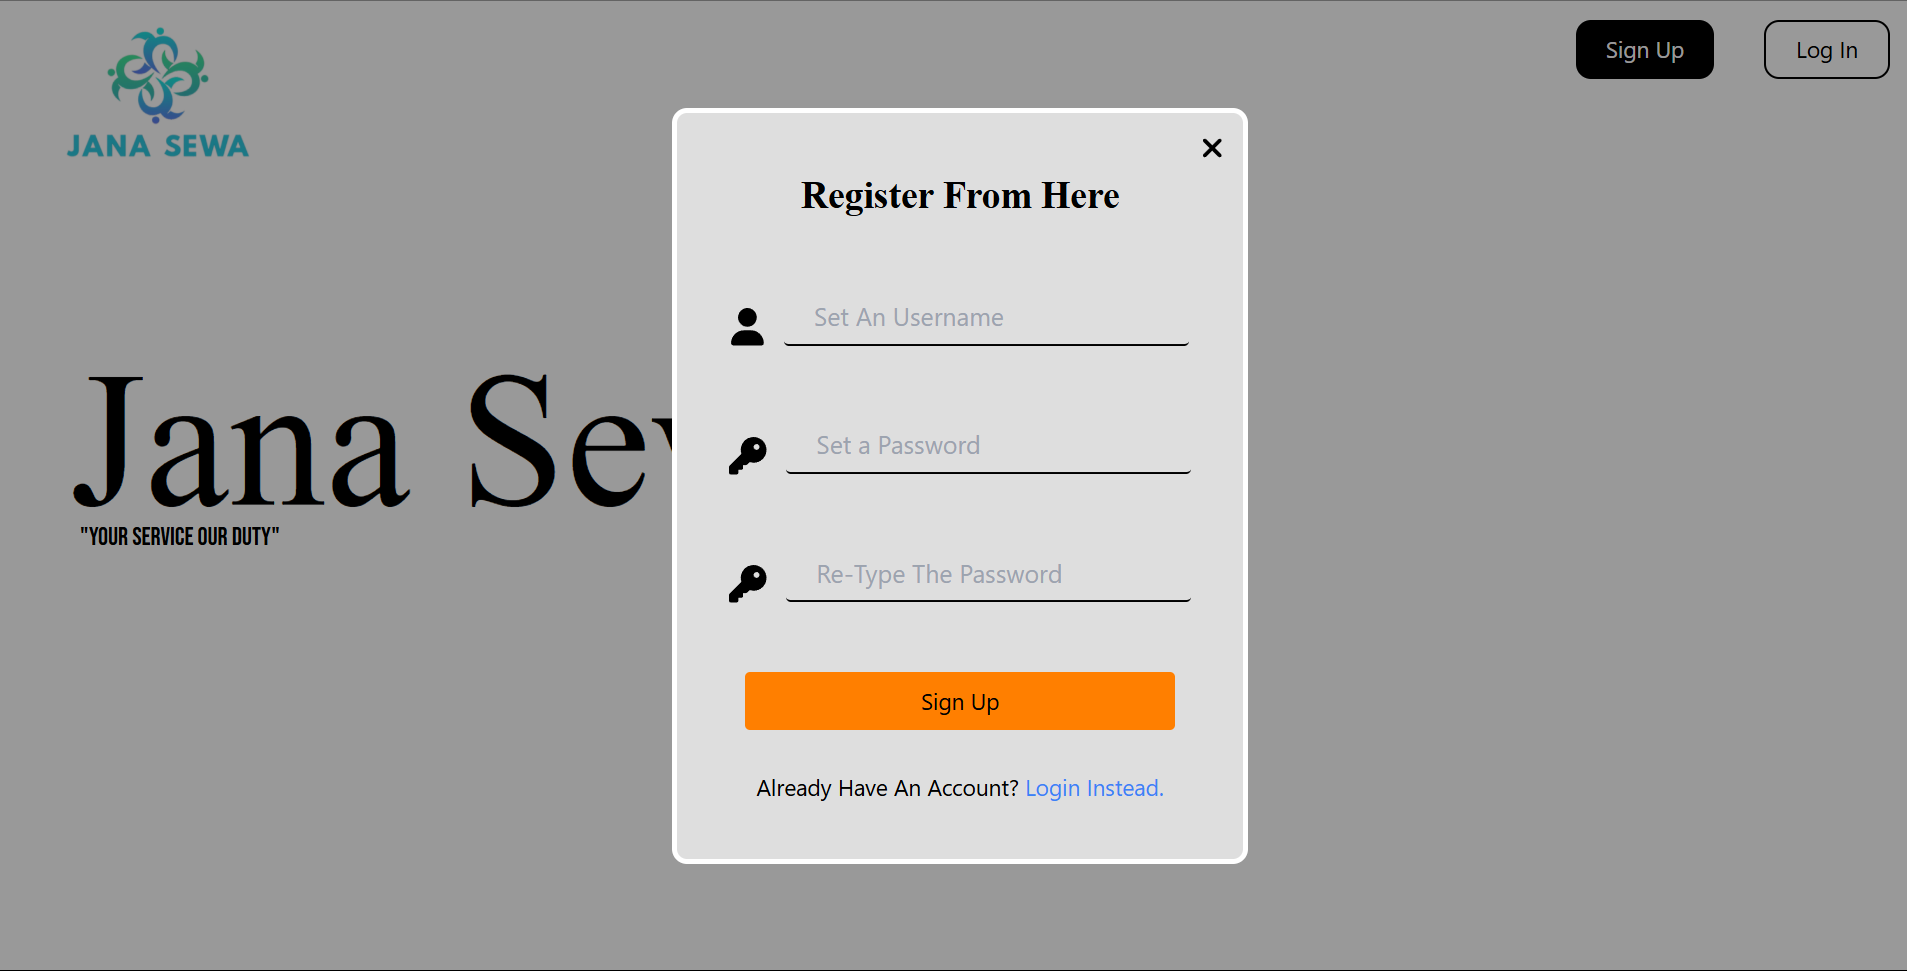
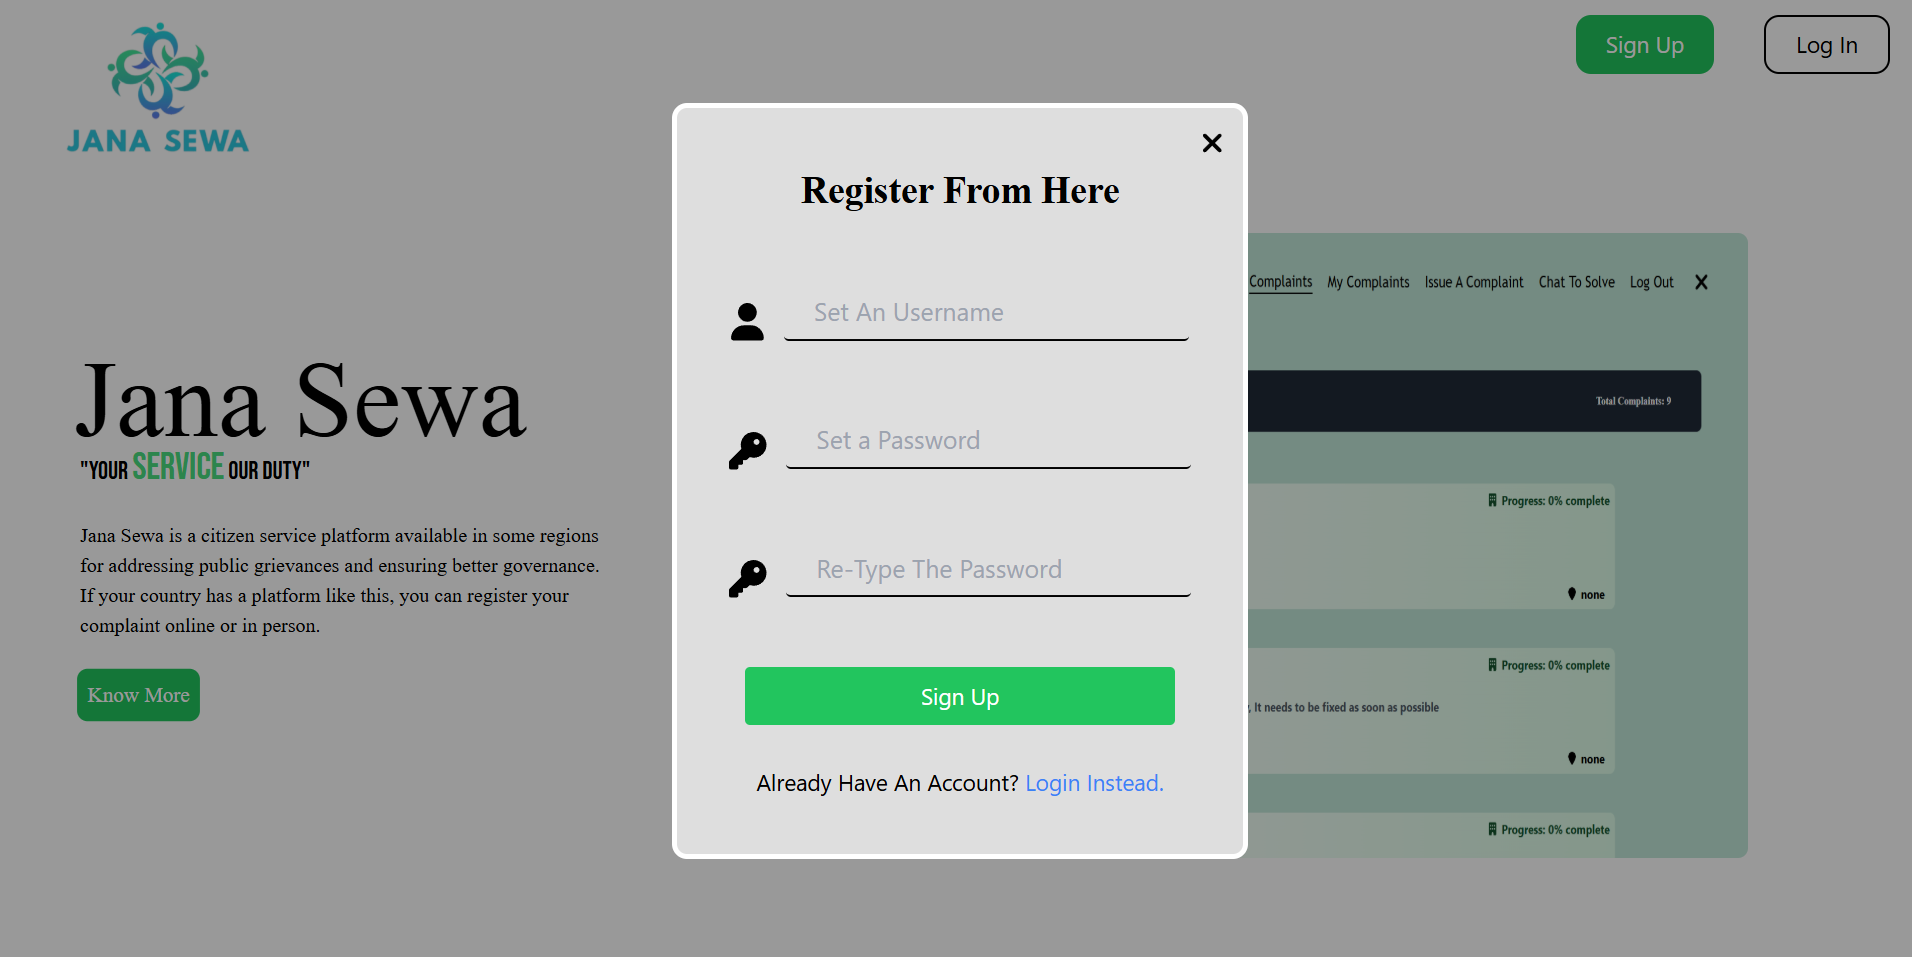
front end changes

diff --git a/frontend/src/LandingComponents/SignUpPage.jsx b/frontend/src/LandingComponents/SignUpPage.jsx
@@ -95,11 +95,6 @@ const SignUpPage = ({setSignUpForm, handleFormModalClick}) => {
             setRePassword('');
         }
     }
-
-
-
-
-
   return (
     <div onClick={handleFormClick} className='h-[78vh] w-[30%] relative z-[99]'>
     <form className='h-full w-full bg-theme-secondary rounded-xl px-6 py-4 border-4 border-white flex flex-col items-center gap-14 pt-12 relative'>
@@ -116,7 +111,7 @@ const SignUpPage = ({setSignUpForm, handleFormModalClick}) => {
             <FontAwesomeIcon icon={faKey} className='text-3xl self-end'  />
             <input value={rePassword} onChange={hanldeRePassword} name='rePassword' type="password" placeholder='Re-Type The Password' className='bg-theme-secondary text-xl focus:outline-none text-gray-900 h-[6vh] w-[80%] px-6 rounded placeholder:text-xl border-b-2 border-black'/>
         </div>
-        <button onClick={handleFormSubmit} className='bg-theme-highlight w-[85%] h-[6vh] rounded'>Sign Up</button>
+        <button onClick={handleFormSubmit} className='bg-green-500 text-white hover:bg-green-600 w-[85%] h-[6vh] rounded'>Sign Up</button>
         <div className='w-full flex justify-center items-center -mt-6'>
             <h1>Already Have An Account? <span onClick={() => setSignUpForm(false)} className='text-blue-500 cursor-pointer'>Login Instead.</span></h1>
         </div>

diff --git a/frontend/src/LandingComponents/Header.jsx b/frontend/src/LandingComponents/Header.jsx
@@ -29,8 +29,8 @@ const Header = () => {
     <div className='h-[10vh] w-full flex justify-between items-center px-6 text-black text-lg relative z-[999]'>
       <img src={blacklogo} alt="logo" className='h-[200%] mt-[5%]' />
       <div className='h-full w-[40%] flex justify-end items-center gap-10'>
-            <button onClick={() => {handleFormPopUp(); setSignUpForm(true);}}  className='px-6 h-[60%] bg-black text-white hover:text-black  transition-all duartion-100 rounded-xl hover:bg-theme-highlight'>Sign Up</button>
-            <button onClick={() => {handleFormPopUp(); setSignUpForm(false);}} className='px-6 h-[60%] border-2 border-black rounded-xl transition-all duration-100 hover:bg-theme-highlight'>Log In</button>
+            <button onClick={() => {handleFormPopUp(); setSignUpForm(true);}}  className='px-6 h-[60%] bg-green-500 text-white hover:bg-green-600  transition-all duartion-100 rounded-xl '>Sign Up</button>
+            <button onClick={() => {handleFormPopUp(); setSignUpForm(false);}} className='px-6 h-[60%] border-2 border-black rounded-xl transition-all duration-100 hover:bg-green-600 '>Log In</button>
       </div>
 
       <div ref={formModalRef} onClick={handleFormModalClick} className={`h-screen w-full hidden fixed top-0 left-0 bg-[rgba(0,0,0,0.4)] flex justify-center items-center z-[99]`}>

diff --git a/frontend/src/LandingComponents/SignInPage.jsx b/frontend/src/LandingComponents/SignInPage.jsx
@@ -74,9 +74,9 @@ const SignInPage = ({setSignUpForm, handleFormModalClick}) => {
         </div>
         <div className=' w-full flex justify-center items-center gap-4'>
             <FontAwesomeIcon icon={faKey} className='text-3xl self-end'  />
-            <input value={formData.password} onChange={handleFormInput} name='password' type="password" placeholder='Set a Password' className='bg-theme-secondary text-xl focus:outline-none text-gray-900 h-[6vh] w-[80%] px-6 rounded placeholder:text-xl border-b-2 border-black'/>
+            <input value={formData.password} onChange={handleFormInput} name='password' type="password" placeholder='Enter your Password' className='bg-theme-secondary text-xl focus:outline-none text-gray-900 h-[6vh] w-[80%] px-6 rounded placeholder:text-xl border-b-2 border-black'/>
         </div>
-        <button onClick={handleFormSubmit} className='bg-theme-highlight w-[85%] h-[6vh] rounded'>Log In</button>
+        <button onClick={handleFormSubmit} className='bg-green-500 text-white hover:bg-green-600 w-[85%] h-[6vh] rounded'>Log In</button>
         <div className='w-full flex justify-center items-center -mt-6'>
             <h1>Already Have An Account? <span onClick={() => setSignUpForm(true)} className='text-blue-500 cursor-pointer'>Sign Up Instead.</span></h1>
         </div>

diff --git a/frontend/src/UserPageComponents/IssueComplaintPage.jsx b/frontend/src/UserPageComponents/IssueComplaintPage.jsx
@@ -73,10 +73,10 @@ const IssueComplaintPage = () => {
                 <input value={formData.location} onChange={handleFormInput} name='location' id='location' type="text" placeholder='Enter the location for the complaint' className='h-[6vh] rounded px-4 py-2 bg-theme-primary border-b-2 border-black w-[60%] focus:outline-none' />
               </div>
               <div className='h-auto w-[40%] flex justify-between items-end'>
-                <button onClick={handleFormSubmit} className={`h-full w-full bg-orange-500 hover:bg-orange-600 py-2 px-4 rounded text-xl ${isLoading ? 'select-none pointer-events-none': ''}`}>
+                <button onClick={handleFormSubmit} className={`h-full w-full text-white bg-green-500 hover:bg-green-600 py-2 px-4 rounded text-xl ${isLoading ? 'select-none pointer-events-none': ''}`}>
                   {isLoading ? (
                     <ClipLoader
-                    color={'orange'}
+                    color={'green'}
                     size={20}
                     aria-label="Loading Spinner"
                     />

diff --git a/frontend/src/LandingComponents/Intro.jsx b/frontend/src/LandingComponents/Intro.jsx
@@ -8,7 +8,7 @@ const Intro = (props) => {
             <h1 className='text-7xl scale-[1.2] ml-[8%]'>Jana Sewa</h1>
             <h3 className='text-xl font-bebas'>"Your <span className='text-green-400 text-3xl'>Service</span> Our Duty"</h3><br></br>
             <h4 >Jana Sewa is a citizen service platform available in some regions for addressing public grievances and ensuring better governance. If your country has a platform like this, you can register your complaint online or in person. </h4> <br />
-            <button className='bg-green-500 text-white p-2 rounded-lg hover:bg-green-600 scale-105 ease-in' onClick={()=>props.handleBtnClicked()}>Know More</button>
+            <button className='p-2 rounded-lg bg-green-500 text-white hover:bg-green-600 scale-105 ease-in' onClick={()=>props.handleBtnClicked()}>Know More</button>
         </div>
     </div>
   )

diff --git a/frontend/src/LandingComponents/KnowMore.jsx b/frontend/src/LandingComponents/KnowMore.jsx
@@ -4,6 +4,7 @@ import slide2 from '../Assets/slide2.png'
 import slide3 from '../Assets/slide3.png'
 import slide4 from '../Assets/slide4.png'
 import slide5 from '../Assets/slide5.png'
+import slide6 from '../Assets/slide6.png'
 
 
 const KnowMore = () => {
@@ -27,6 +28,7 @@ const KnowMore = () => {
                      <img className="w-[50%] p-5 rounded-[29px] "src={slide3} alt='img3'/>
                      <img className="w-[50%] p-5 rounded-[29px] "src={slide4} alt='img4'/>
                      <img className="w-[50%] p-5 rounded-[29px] "src={slide5} alt='img5'/>
+                     <img className="w-[50%] p-5 rounded-[29px] "src={slide6} alt='img6'/>
 
                 </div>    
             </div>
